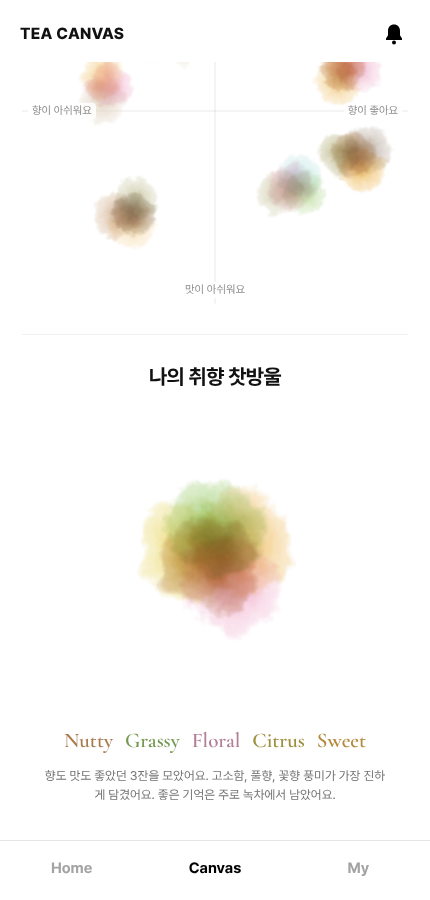
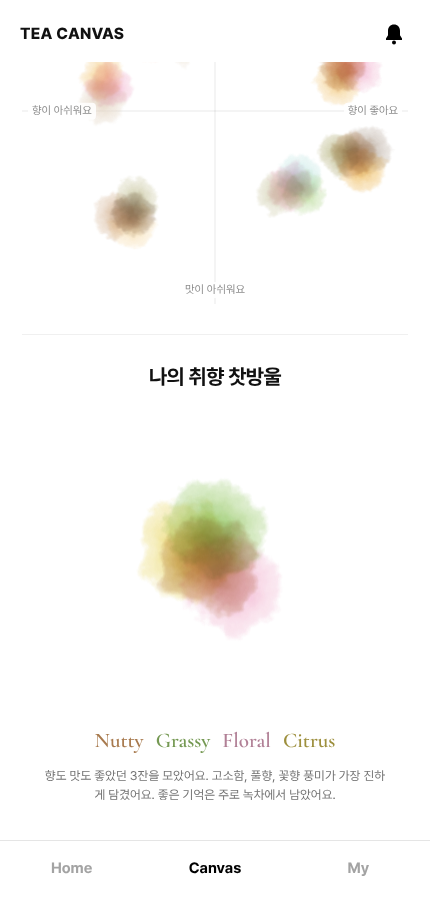
v5 favorite drop: top 4 flavors
Claude-Session: https://claude.ai/code/session_01VYi7RYbVTTHX5Zvyr9oi23

Changed region(s): [[0.4837, 0.5289, 0.6953, 0.6844], [0.1512, 0.8089, 0.8465, 0.84]]

diff --git a/TEA_CANVAS_prototype_v5.html b/TEA_CANVAS_prototype_v5.html
@@ -993,7 +993,7 @@ function favDrop(){
   const top=ks.map(k=>({k,w:+(.4+.55*fl[k]/mx).toFixed(2)}));
   const drop={id:'fav-'+rs.map(r=>r.id).join('.'),comps:[{key:'tea',c:TEAS[topT].color,w:.45},...top.map(f=>({key:f.k,c:FLAVORS[f.k].color,w:f.w}))]};
   const names=top.map(f=>FLAVORS[f.k].label);
-  const all=Object.keys(fl).sort((a,b)=>fl[b]-fl[a]).map(k=>({k,c:FLAVORS[k].color,w:fl[k]/mx})).slice(0,5).filter((f,i)=>i<4||f.w>=.35); // 탁해지지 않게 상위 4~5색만
+  const all=Object.keys(fl).sort((a,b)=>fl[b]-fl[a]).map(k=>({k,c:FLAVORS[k].color,w:fl[k]/mx})).slice(0,4); // 탁해지지 않게 상위 4색만
   return {drop,top,all,n:rs.length,
     title:`향도 맛도 좋았던 ${rs.length}잔을 모았어요`,
     desc:names.length?`${names.join(', ')} 풍미가 가장 진하게 담겼어요. 좋은 기억은 주로 ${TEAS[topT].label}에서 남았어요.`:`좋은 기억은 주로 ${TEAS[topT].label}에서 남았어요.`};
